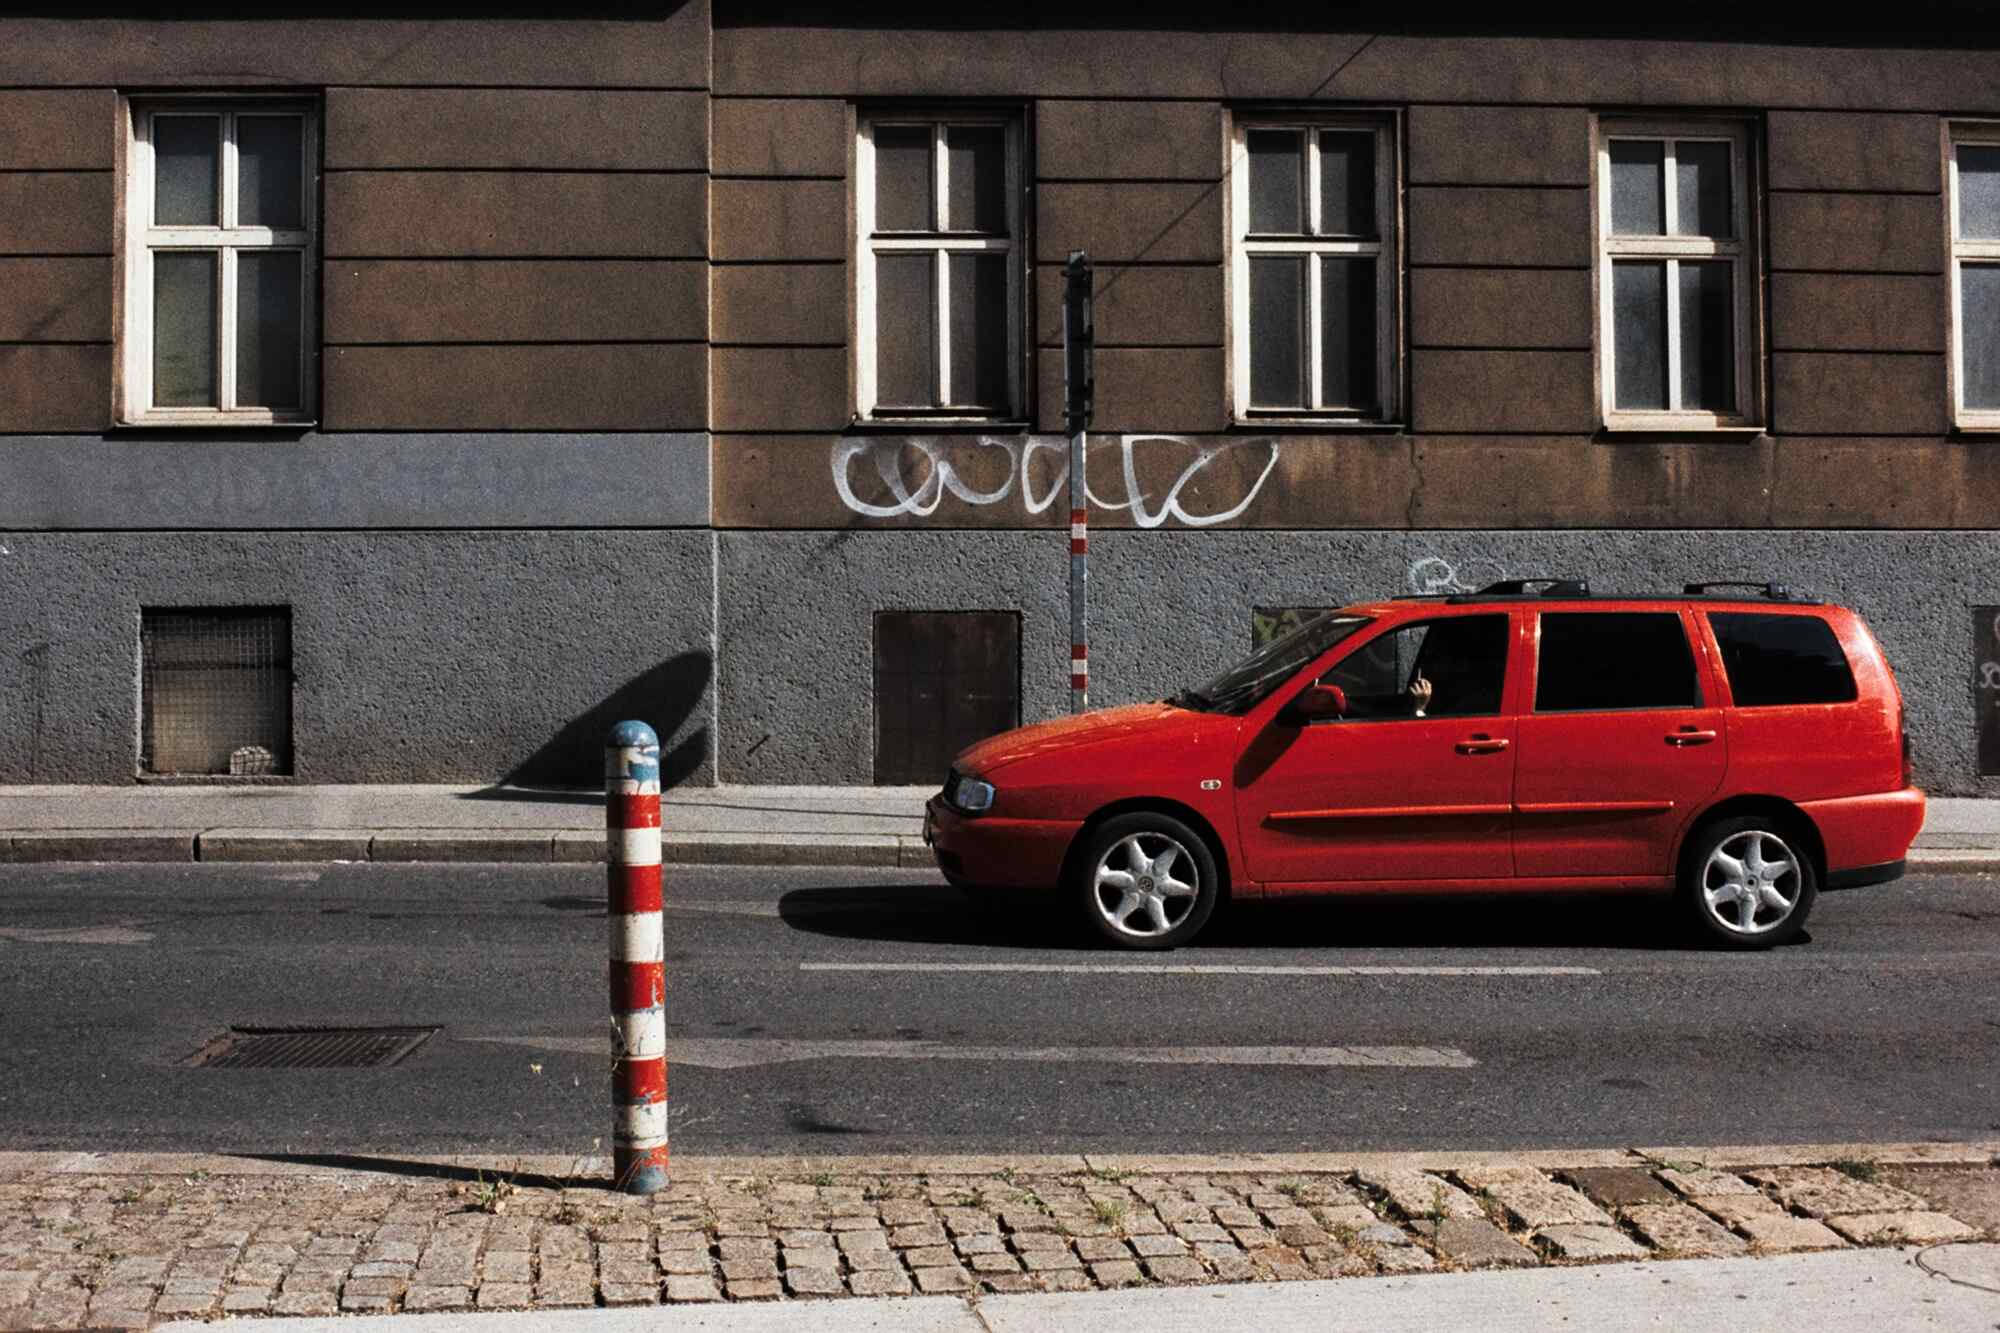
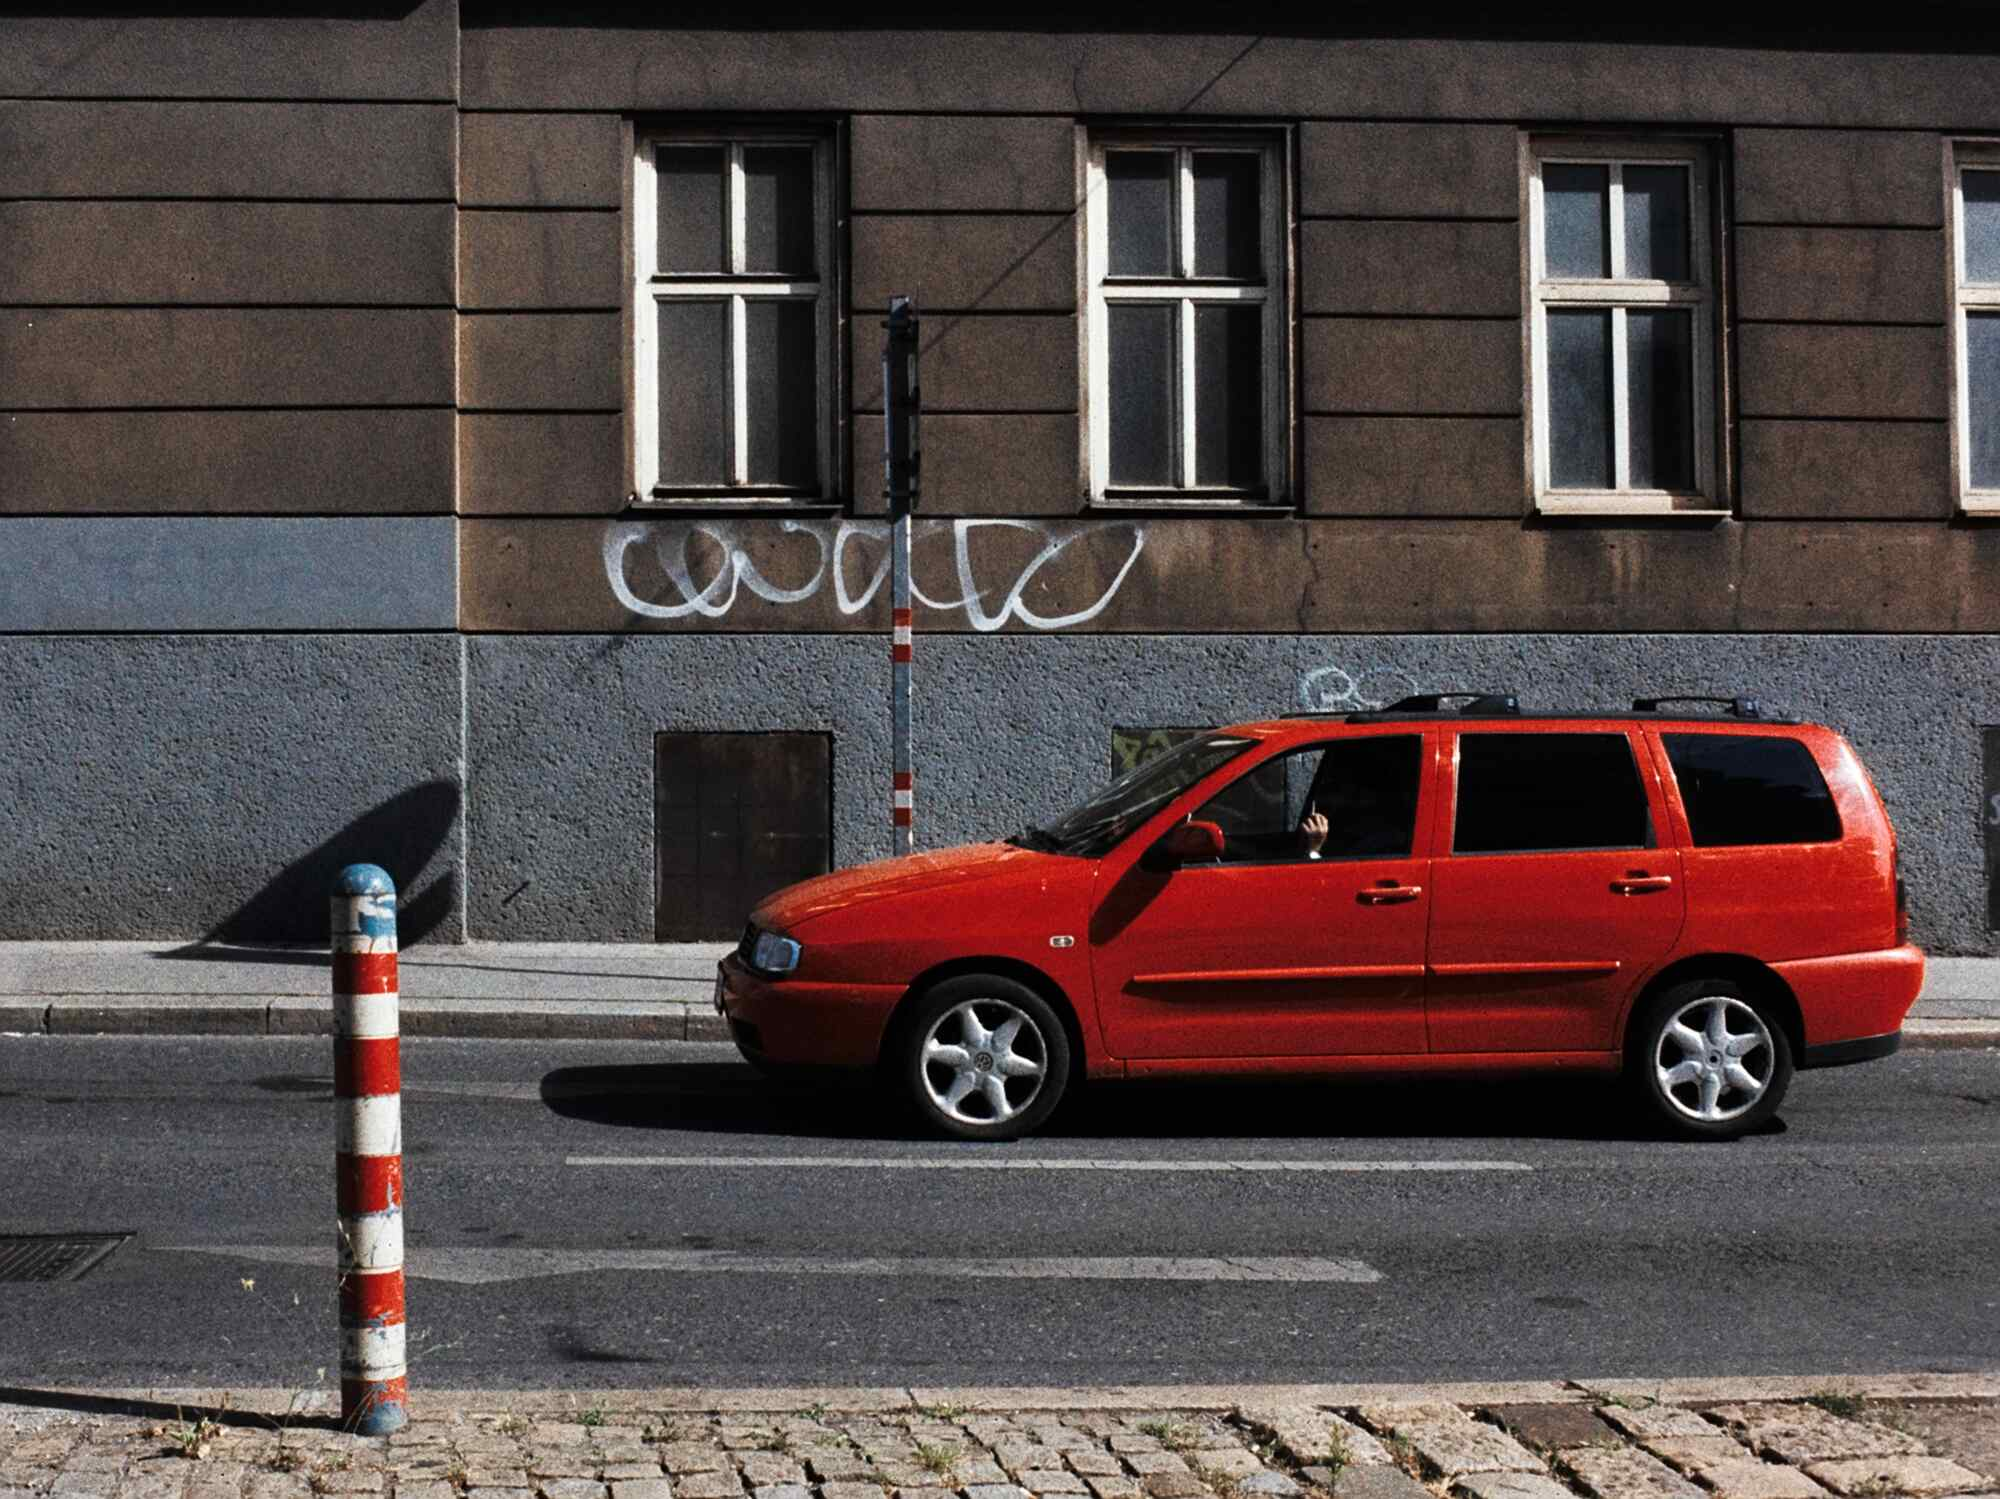
Stadtbild

diff --git a/Stadtbild.html b/Stadtbild.html
@@ -32,13 +32,20 @@
 
 
 <div class="gallery">
-
+    <img src="images/20260614_DSCF4865.jpg" class="landscape" alt="">
+    <img src="images/20260614_DSCF4866.jpg" class="portrait" alt="">
+    <img src="images/20260703_DSCF4976.jpg" class="landscape" alt="">
+    <img src="images/20260703_DSCF4977.jpg" class="portrait" alt="">
+    <img src="images/20260614_DSCF4869.jpg" class="landscape" alt="">
+    <img src="images/20260614_DSCF4862.jpg" class="portrait" alt="">
+    <img src="images/20260614_DSCF4872.jpg" class="landscape" alt="">
+    <img src="images/20260614_DSCF4873.jpg" class="landscape" alt="">
+    <img src="images/20260614_DSCF4863.jpg" class="landscape" alt="">
     <img src="images/20260703_DSCF4985.jpg" class="portrait" alt="">
     <img src="images/20260614_DSCF4867.jpg" class="portrait" alt="">
     <img src="images/20260625_DSCF4938.jpg" class="portrait" alt="">
     <img src="images/20260713_DSCF5078.jpg" class="landscape" alt="">
     <img src="images/20260713_DSCF5083.jpg" class="landscape" alt="">
-    <img src="images/20260703_DSCF4996.jpg" class="portrait" alt="">
     <img src="images/20260713_DSCF5101.jpg" class="portrait" alt="">
     <img src="images/20260713_DSCF5104.jpg" class="landscape" alt="">
     <img src="images/20260624_DSCF4888.jpg" class="portrait" alt="">
@@ -50,7 +57,12 @@
     <img src="images/20260624_DSCF4911.jpg" class="portrait" alt="">
     <img src="images/20260714_DSCF5118.jpg" class="landscape" alt="">
     <img src="images/20260916_DSCF5922.jpg" class="portrait" alt="">
-
+    <img src="images/20260818_DSCF5270.jpg" class="landscape" alt="">
+    <img src="images/20261020_DSCF5956.jpg" class="landscape" alt="">
+    <img src="images/20261020_DSCF5960.jpg" class="landscape" alt="">
+    <img src="images/20261020_DSCF5963.jpg" class="landscape" alt="">    
+    <img src="images/20261020_DSCF5964.jpg" class="landscape" alt="">
+    <img src="images/20261020_DSCF5974.jpg" class="portrait" alt="">      
 </div>
  <div class="project-header">
     <h1>Stadtbild</h1>

diff --git a/VorDemFest.html b/VorDemFest.html
@@ -36,8 +36,8 @@
     <img src="images/20260625_DSCF4958.jpg" class="portrait" alt="">
     <img src="images/20260625_DSCF4959.jpg" class="landscape" alt="">
     <img src="images/20260625_DSCF4951.jpg" class="landscape" alt="">
-    <img src="images/20260625_DSCF4947.jpg" class="landscape" alt="">
-    <img src="images/20260625_DSCF4957.jpg" class="portrait" alt="">
+    <!-- <img src="images/20260625_DSCF4947.jpg" class="landscape" alt=""> -->
+    <!-- <img src="images/20260625_DSCF4957.jpg" class="portrait" alt=""> -->
     <img src="images/20260625_DSCF4941.jpg" class="landscape" alt="">
     <img src="images/20260625_DSCF4921.jpg" class="landscape" alt="">   
     <img src="images/20260625_DSCF4928.jpg" class="landscape" alt="">

diff --git a/index.html b/index.html
@@ -50,12 +50,12 @@
 </div>
 </section>
 
-<section class="project">
+<!-- <section class="project">
 <div class="hero">
     <a href="Brunnenmarkt.html">
         <img src="images/20260614_DSCF4863.jpg" alt="Brunnenmarkt">
     </a>
-</div>
+</div> 
 
 <div class="project-info">
     <h2>Brunnenmarkt</h2>
@@ -63,7 +63,7 @@
         Wien, Sommer 2026
     </p>
 </div>
-</section>
+</section> -->
 
 <section class="project">
 <div class="hero">
